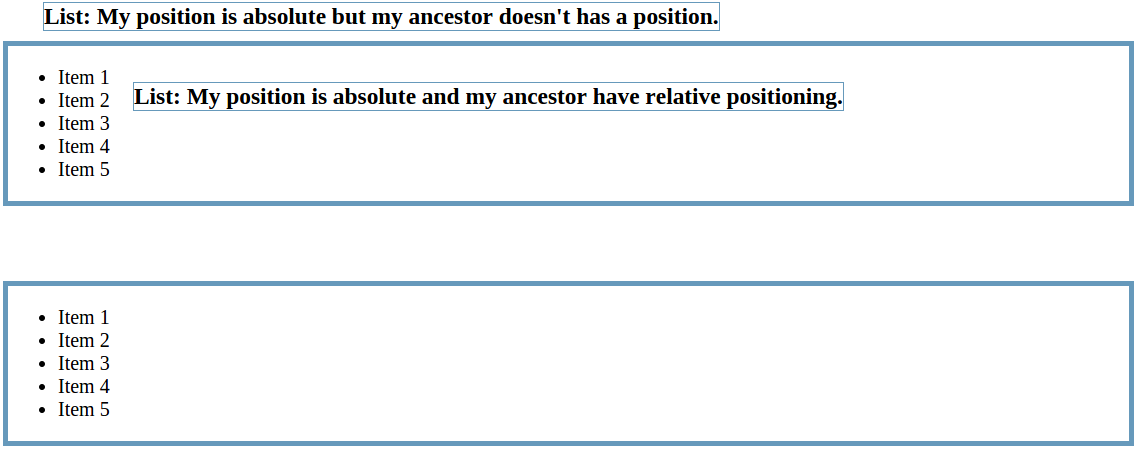
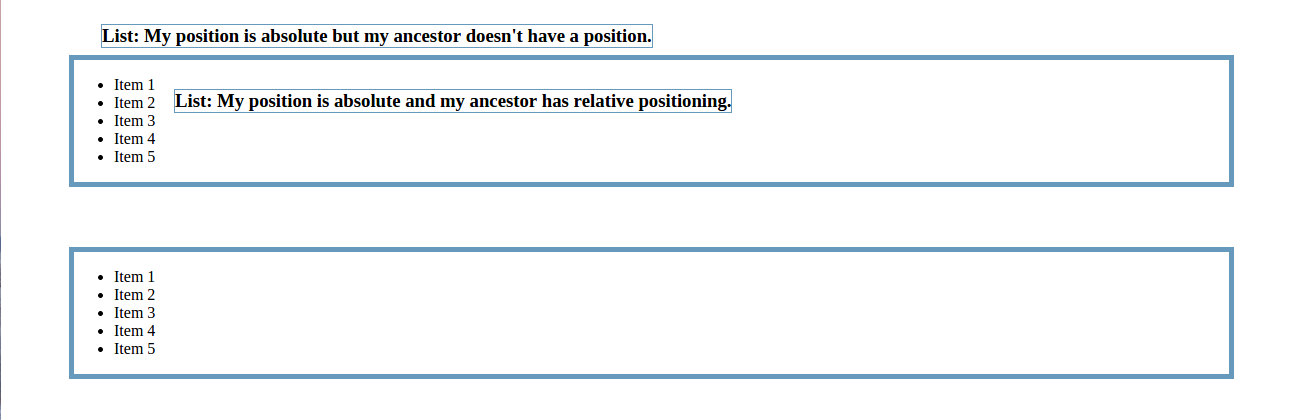
Correcting grammatical errors and replacing AbsolutePositioning.html file.

Changed region(s): [[0.0, 0.0, 1.0, 0.4643], [0.0, 0.5881, 1.0, 1.0]]

diff --git a/Absolute.html b/Absolute.html
@@ -31,7 +31,7 @@
 </head>
 <body>
 <div id="list3">
-    <h3 id="head3">List: My position is absolute and my ancestor have relative positioning.</h3>
+    <h3 id="head3">List: My position is absolute and my ancestor has relative positioning.</h3>
     <ul>
         <li>Item 1</li>
         <li>Item 2</li>
@@ -41,7 +41,7 @@
     </ul>
 </div>
 <div id="list4">
-    <h3 id="head4">List: My position is absolute but my ancestor doesn't has a position.</h3>
+    <h3 id="head4">List: My position is absolute but my ancestor doesn't have a position.</h3>
     <ul>
         <li>Item 1</li>
         <li>Item 2</li>

diff --git a/README.md b/README.md
@@ -145,7 +145,7 @@ Keep Calm and See the following Code:
 </head>
 <body>
 <div id="list3">
-    <h3 id="head3">List: My position is absolute and my ancestor have relative positioning.</h3>
+    <h3 id="head3">List: My position is absolute and my ancestor has relative positioning.</h3>
     <ul>
         <li>Item 1</li>
         <li>Item 2</li>
@@ -155,7 +155,7 @@ Keep Calm and See the following Code:
     </ul>
 </div>
 <div id="list4">
-    <h3 id="head4">List: My position is absolute but my ancestor doesn't has a position.</h3>
+    <h3 id="head4">List: My position is absolute but my ancestor doesn't have position.</h3>
     <ul>
         <li>Item 1</li>
         <li>Item 2</li>
